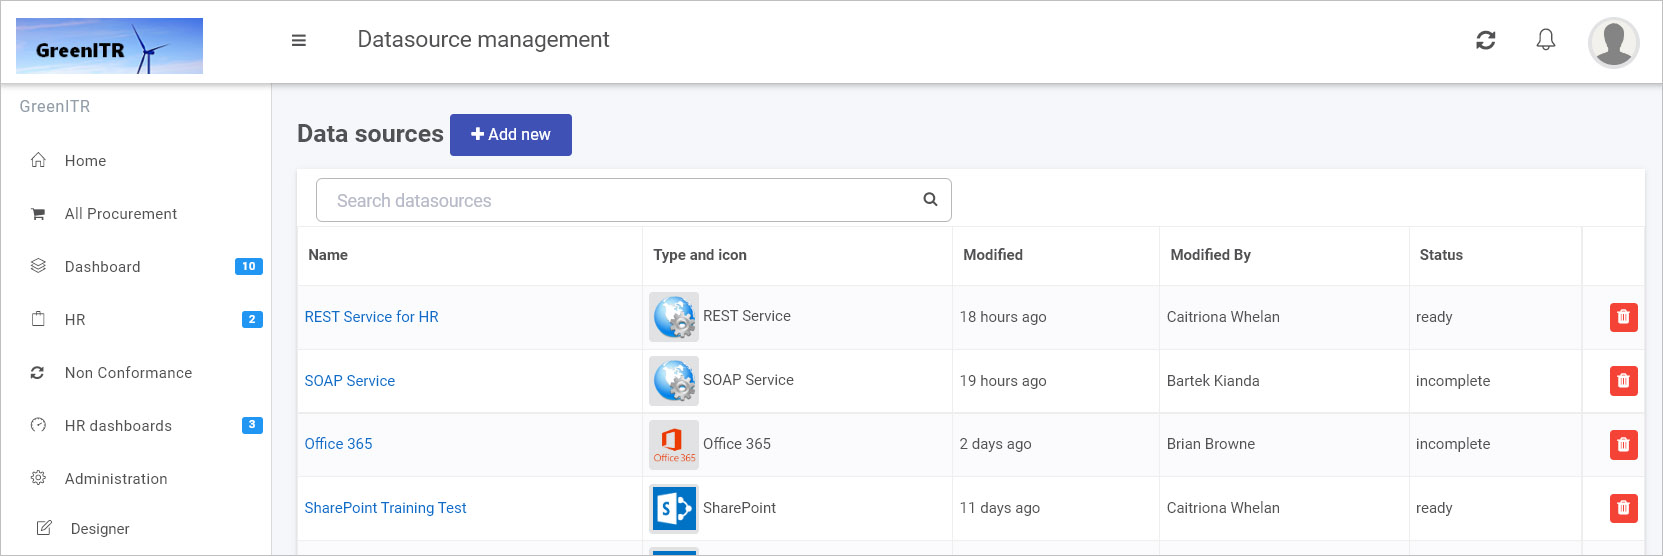
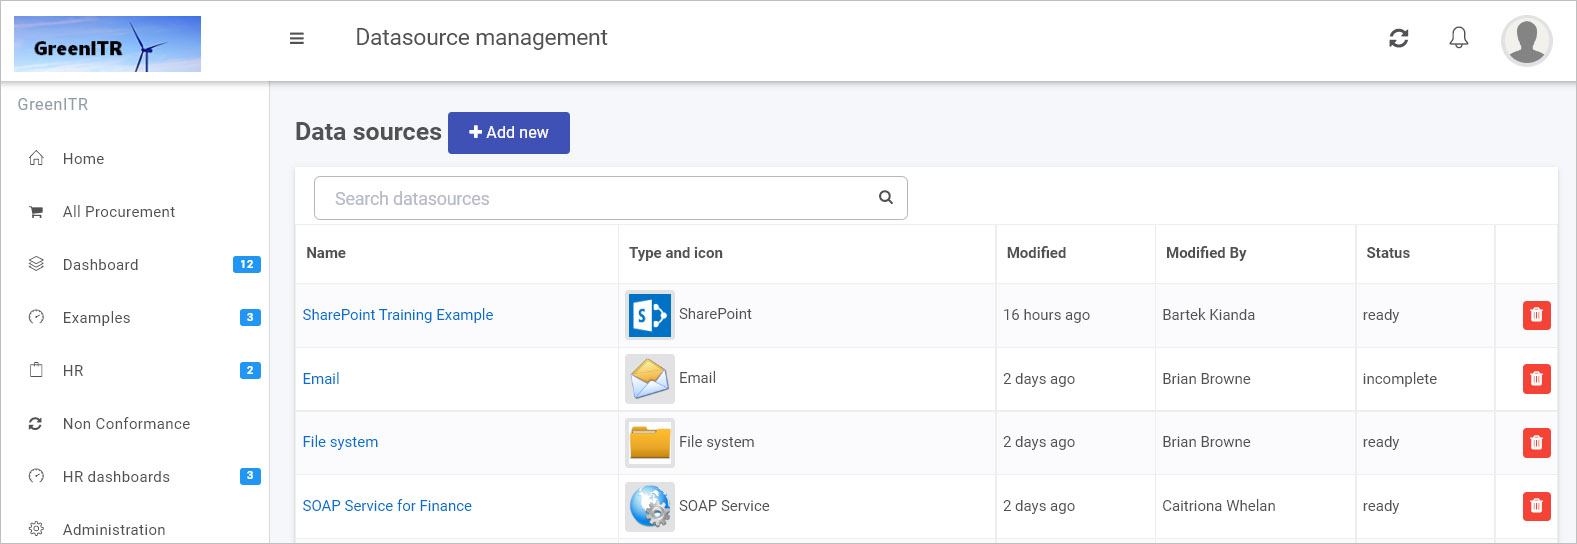
Updates to admin pages

diff --git a/content/docs/platform/administration/datasources.md b/content/docs/platform/administration/datasources.md
@@ -31,14 +31,71 @@ Kianda comes with 19 predefined **data connectors** allowing you to connect to t
 
 If you are a developer and want to connect to a datasource that is not included in the predefined set, you can use SOAP or REST to create your own API for data transfer.
 
-### How to get started
+## How to get started
 
-To add a SharePoint data connector, the steps are:
+To start viewing existing data sources:
 
-1. To connect to a datasource, select **Administration** from the left-hand side pane and then click **Data sources**.
-2. Click on **+ Add new** button and then one of 19 data connectors, for example **SharePoint**.
-3. In the case of a SharePoint data connector, fill out the **Site URL** and choose from options like **SharePoint version**, **Scope** as in, if it is a **Site** or **Site Collection** and **Authentication mode**. For example, if you choose **System User Credentials** as an authentication mode, you must provide your SharePoint system username and password.
-4. Click on **Test connection** and then **Save**.
+1. To see the datasource management function, select **Administration** from the left-hand side pane and then click **Data sources**.
+2. Any existing data sources that have been created for your workspace are shown in the main view under **Datasource management**. 
+
+   ![Existing data connectors](/images/datasource-list.jpg)
+
+   Data sources are listed by: **Name**, **Type and icon**, **Modified** (as in the date the connector was modified), **Modified By** (the person who last made changes) and the **Status**, for example **ready** means the connection has been tested and is working, while **incomplete** means that more details still need to be added. 
+3. To **search** for a data source, type in the name or type of data source in the **search box**.
+
+4. To **delete** a data source, click on the **Bin/Trash** button ![Bin/Trash button](/images/bin-shared-process.jpg) beside the name of the datasource. You will receive a popup asking to you to confirm deletion by clicking **OK**, or you can exit the deletion by clicking on **Cancel**.
+
+5. To **see the details** of a data source, click on the **name** of the Data source and from there you are brought to the **Data source details** page:
+
+   ![Data source details example](/images/datasource-details-eg.jpg)
+
+6. The details will vary depending on the data source, but there are some common elements:
+
+   - **Display name** - the name of the data source as it will display in your system. Choose something meaningful, as you will use this name in process design to connect your forms to your data source.
+   - **Information about the data source** - this could be a URL, Server name, Client ID, root folder path etc. 
+   - **Authentication details** - this could be a username, password, client secret etc.
+   - Option to use **Kianda Cloud Connect** - you enable this feature and download a zip file which you can install on your server, allowing the Kianda system to reach your server and get access to data, for example SQL Server, making system integration quick and efficient.
+   - **Test connection** - all data source detail pages will allow you to test your connection using this button to ensure data exchange can happen.
+   - **Save** - at any time you can save details, even if some parameters need to be completed, allowing you to return to the configuration at any point.
+   - **Security** - all data sources can have different levels of security set up, including administrators for the connection, and users of the connection, see [Setting security for data sources](#setting-security-for-data-sources) for more details.
+   - **Close** - allows you to exit from the data source details page.
+
+
+
+
+## How to create a new datasource
+
+The following uses **SharePoint as an example** when creating a new datasource. The main steps for any datasource will be similar, that is: click on the **Add new** button, fill out the **datasource details** page, **test the connection**, **save** and **add security**.
+
+1. From the main datasource management view, click on **+ Add new** button ![Add new data connector button](/images/addnew.png) and then one of 19 data connectors that appear, for example **SharePoint**.
+2. Fill out fields in the **SharePoint details** screen.
+
+   ![Sharepoint datasources](/images/sharepoint-connector.jpg)
+
+   Choose from the edit options:
+
+   - **Display name** - the name of the data source, for example SharePoint HR
+
+   - **Site URL** - this is the link to your SharePoint data 
+
+   - **SharePoint version** - choose from a) SharePoint Online (also known as SharePoint in Microsoft 365) b) SharePoint 2016 or c) SharePoint 2013
+
+   - **Scope** - choose from a) Site for example a particular SharePoint website or b) Site Collection, a collection of SharePoint sites
+
+   - **Authentication mode** - options are a) SharePoint Online Authorisation and b) System User Credentials
+
+     If you choose a) SharePoint Online Authorisation then click on **Authorize** button ![Authorize button](/images/authorize.png) in this instance you will need SharePoint administration rights
+
+     If you choose b) System User Credentials then fill out your username and password. In this instance you do not need SharePoint administration rights.
+
+4. When you have added SharePoint details, you are ready to test your connection and add security. At the bottom of the **SharePoint details** page, click on **Test connection** button ![Test connection for REST Service](/images/test-connection.jpg) and if the service has been correctly configured, then you should receive a notification saying **Connection test succeeded**.
+
+5. Click on **Save** ![Save connection button](/images/save-connection.jpg)to save the connection and you will receive a notification saying **Details saved successfully**.
+
+6. Add Security settings by clicking on the **Security** button, go to [Setting security for data sources](/docs/platform/connectors/#setting-security-for-data-sources) for more details.
+
+7. Click on **Close** to close the details page and return to the datasource management main view.
+
 
 Once the data connector is created, this can be used with controls like lists and rules, for example in the image below, a SalesForce data connector called 'Training' has been setup within the Data sources function. Lists within SharePoint can then be linked to list fields in Kianda, by clicking on Data connector in the Edit list dialog box.
 
@@ -48,7 +105,7 @@ Once the data connector is created, this can be used with controls like lists an
 
 ### What's next  ![Idea icon](/images/18.png) ###
 
-To read more about data connectors and how to use them, go to [Connectors](/docs/platform/connectors/).
+To read more about data connectors and how to use them, go to [Data Connectors](/docs/platform/connectors/).
 
 
 

diff --git a/content/docs/platform/administration/b2b portals.md b/content/docs/platform/administration/b2b portals.md
@@ -5,7 +5,7 @@ typora-root-url: ..\..\..\..\static
 
 **B2B Portals** is available within the **Invite partners** function and available to administrators and those users with the role **Manage partners**. **Invite partners** is found in the left-hand side pane, under **Administration**. The function allows you to share business processes processes to select business partners as external links.
 
-### How to get started
+## How to get started
 
 To access B2B portals:
 
@@ -21,11 +21,11 @@ To access B2B portals:
 
    
 
-### Shared processes
+## Shared processes
 
 Existing shared processes appear within this section in the right-hand side of the main view. Before you invite a partner you must choose a process to share from within this section first. 
 
-#### To share a process
+### To share a process
 
 1. To share a process with a business partner, click on the **Share a process** button. 
 
@@ -45,7 +45,7 @@ The fields in this box are:
 
   ![Edit selected shared process properties](/images/change-selected-prop.jpg)
 
-- If you click on the **Cog/Settings **button ![Edit selected shared process properties](/images/cog-shared-process.jpg) a **Process properties** dialog box appears, as shown above, for example Training Request properties. You can check radio buttons for:
+- If you click on the **Cog/Settings** button ![Edit selected shared process properties](/images/cog-shared-process.jpg) a **Process properties** dialog box appears, as shown above, for example Training Request properties. You can check radio buttons for:
 
   - **Allow partner to create a new process instance** - choose from **Yes** or **No**. If you choose **Yes**, then you are allowing invited partner(s) to create new process instances from the chosen shared process design. A field **Partner user group allowed to create new instances** appears, where you can define the group(s) in the partner organisation, that can create these new process instances. If you leave the field blank, then anyone in the partner organisation can create process instances.
 
@@ -57,7 +57,7 @@ The fields in this box are:
 
 - If you click on the **Bin/trash** button ![Bin button for shared processes](/images/bin-shared-process.jpg) then a pop-up appears to **Confirm removal**, choose from **OK** or **Cancel**. 
 
-![Confirm removal of selected shared process](/images/confirm-removal.jpg)
+	![Confirm removal of selected shared process](/images/confirm-removal.jpg)
 
 -  Click on the **Tick symbol** ![Edit selected shared  process](/images/edit-selected-process.jpg) to add further selected processes to share.
 
@@ -73,7 +73,7 @@ The fields in this box are:
    
 
 
-#### To view details of an existing shared  process
+### To view details of an existing shared  process
 
 1. From the main shared processes view, click on the **name** of a shared process.
 
@@ -81,24 +81,24 @@ The fields in this box are:
 
 2. An **Edit Shared Process** dialog box appears with the same parameters as described in the [To share a process](#to-share-a-process) section.
 
-![Edit shared process dialog box](/images/edit-shared-process.jpg)
+	![Edit shared process dialog box](/images/edit-shared-process.jpg)
 
 3. From the main shared processes view click on the **Send Update** button if you want to send an update to your partner dashboard. Then in the **Confirm shared process update** dialog box click on **Yes proceed** to send the update or **Cancel** to cancel sending the update.
 
-![Confirm shared process update](/images/confirm-process-update.jpg)
+	![Confirm shared process update](/images/confirm-process-update.jpg)
 
-4. Click on the **Bin/trash** button ![Bin button for shared processes](/images/bin-shared-process.jpg) to delete a shared process, 
+4. Click on the **Bin/trash** button ![Bin button for shared processes](/images/bin-shared-process.jpg) to delete a shared process.
 
 
 To invite partners to shared processes go to the [Partners](#partners) section.
 
 
 
-### Partners
+## Partners
 
 Existing partners appear within this section in the left-hand side of the main view. Before you invite a partner create a shared process as demonstrated in the section [To share a process](#to-share-a-process).
 
-#### To invite partners
+### To invite partners
 
 1. To invite partners to view shared processes, click on the **Invite partner** button. 
 
@@ -124,7 +124,7 @@ Existing partners appear within this section in the left-hand side of the main v
 
    
 
-#### To view details of existing partners
+### To view details of existing partners
 
 1. From the main partners view, click on the **name** of an existing partner from the list of partners or type in the name of a partner in the **Search partner** search box.
 
@@ -141,7 +141,7 @@ Existing partners appear within this section in the left-hand side of the main v
 
 3. When you are finished editing the dialog box, click on **OK**, or else click on **Close** to exit the dialog box at any stage. 
 
-![Confirm shared process update](/images/confirm-process-update.jpg)
+	![Confirm shared process update](/images/confirm-process-update.jpg)
 
 4. From the main shared processes view click on the **New invite** button if you want to invite a partner to a different shared process from the original one. Click on the dropdown list under **Shared process selection** and select one of the listed shared processes. When you have made your choice, click on **OK**, or else click on **Close** to exit the dialog box at any stage. 
 
@@ -163,7 +163,7 @@ To edit existing partner properties, go to the [Partner properties](#partner-pro
 
 
 
-#### Partner properties
+### Partner properties
 
 To add new partner properties click on the **Partner properties** button in the main Partners view.
 
@@ -177,9 +177,9 @@ To add new partner properties click on the **Partner properties** button in the 
 
 4. When you are finished editing the dialog box, click on **OK**, or else click on **Close** to exit the dialog box at any stage. 
 
-When a new property has been added you will receive a notification **Global settings updated** and the attribute can be edited for partners when you click on the partner **name** in the main view and edit the **Partner attributes** details.
+	When a new property has been added you will receive a notification **Global settings updated** and the attribute can be edited for partners when you click on the partner **name** in the main view and edit the **Partner attributes** details.
 
-  ![Partner account details attributes](/images/partner-account-details-attribute.jpg)
+  	![Partner account details attributes](/images/partner-account-details-attribute.jpg)
 
 
 

diff --git a/content/docs/platform/connectors/email.md b/content/docs/platform/connectors/email.md
@@ -10,7 +10,7 @@ In your company's Kianda platform you can connect an emailing service such as Ou
 
 1. From the Kianda home page, click on **Administration** > **Data sources**.
 
-2. Click on **+ Add new** button ![Add new data connector button](http://localhost:1313/images/addnew.png) and choose **Email** from the list of data sources provided.
+2. Click on **+ Add new** button ![Add new data connector button](/images/addnew.png) and choose **Email** from the list of data sources provided.
 
 3. You will be automatically brought to the **Email connection details** page where we can start setting up the email connector.
 
